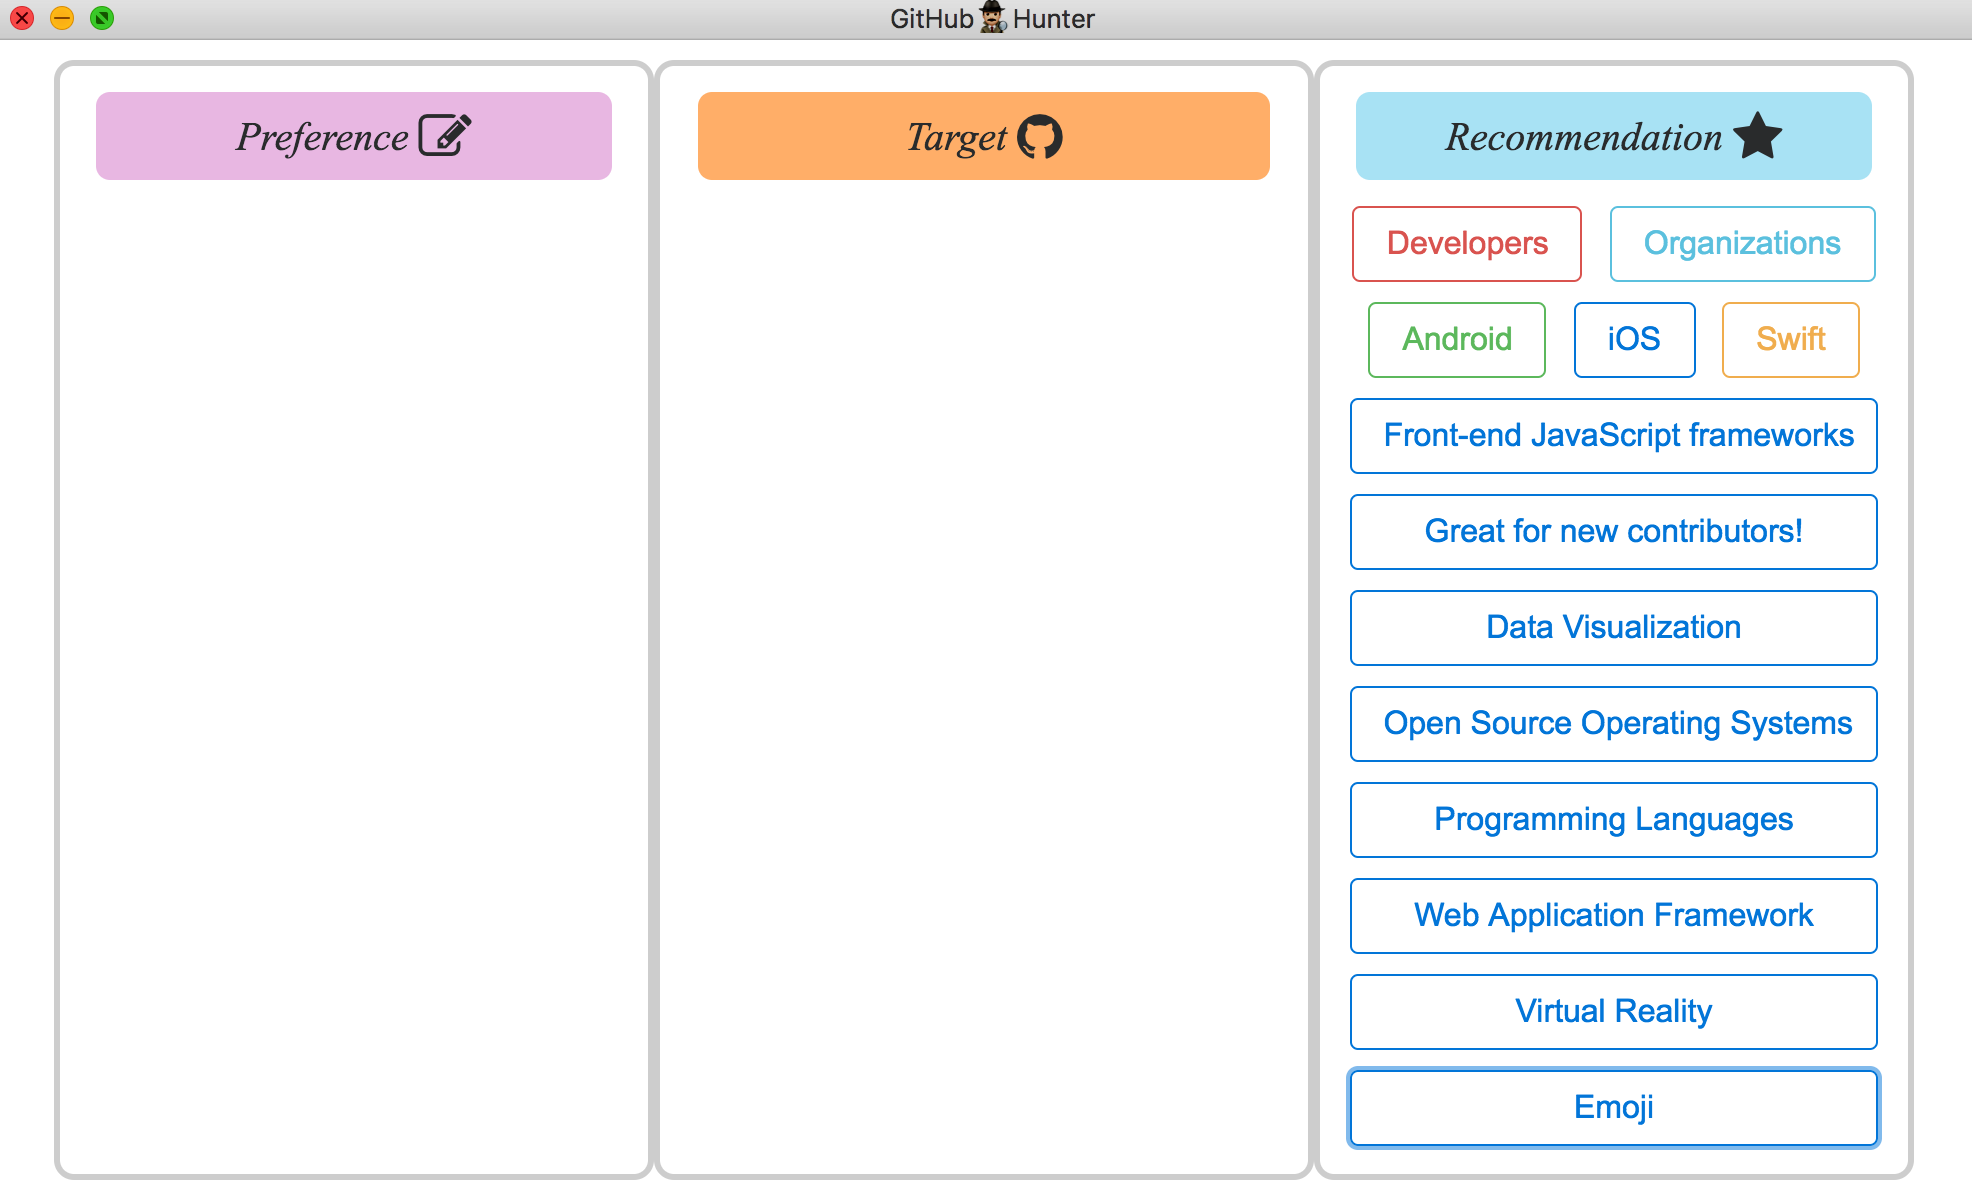
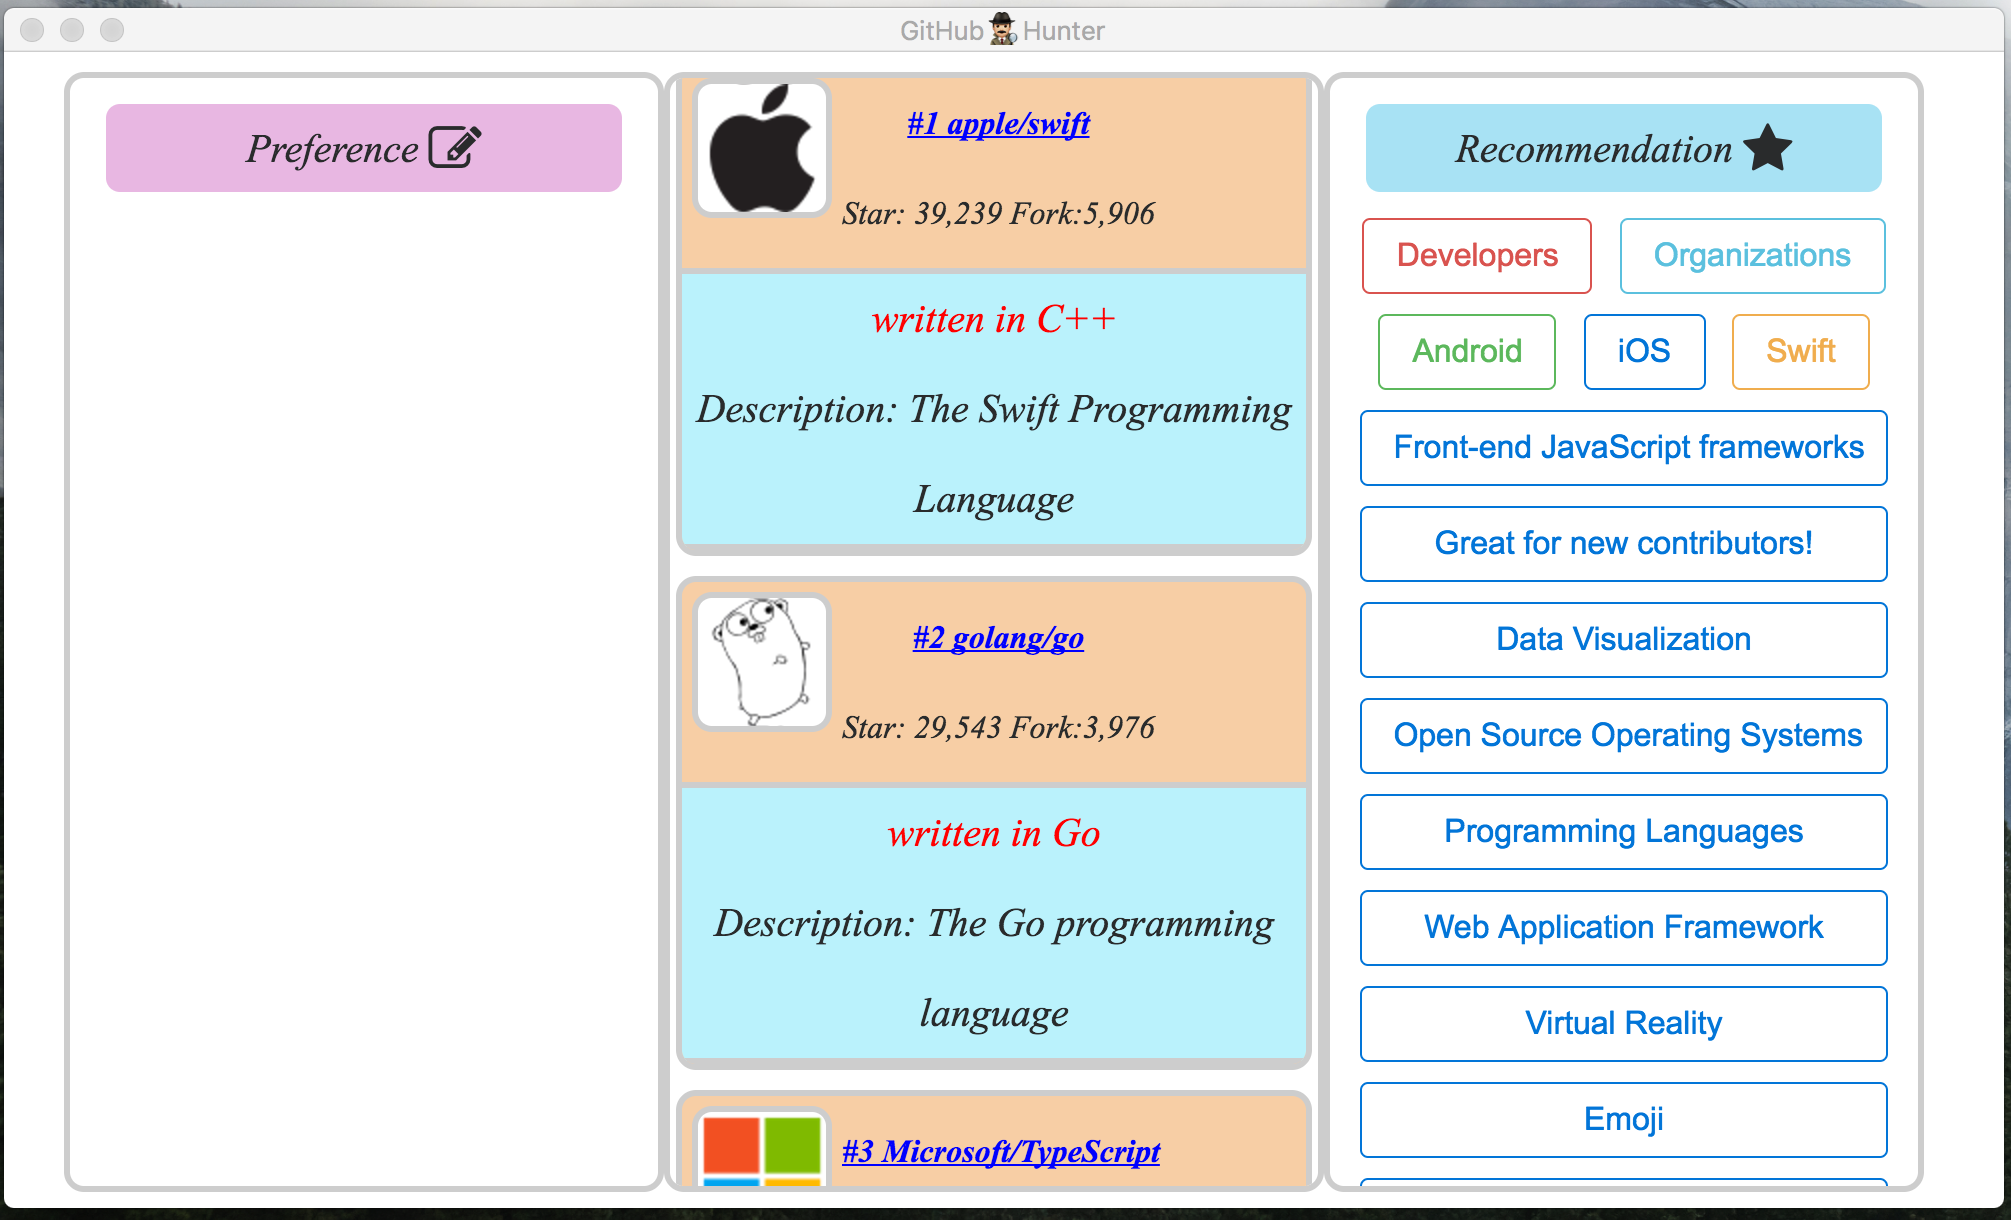
finished the middle section

diff --git a/assets/css/component.css b/assets/css/component.css
@@ -17,7 +17,7 @@
 }
 
 .middle_bar {
-  width: 90%;
+  width: auto;
   height: 50px;
   margin: 0 auto;
   background-color: rgb(255, 174, 104);
@@ -36,7 +36,7 @@
 
 .middle_button_box {
   width: 100%;
-  height: 200px;
+  height: auto;
   margin: 0 auto;
   margin-top: 10px;
   border: #cdcdcd medium solid;
@@ -50,57 +50,41 @@
   font-style: italic;
   font-size: 20px;
   overflow-y: scroll;
+  background-color: #f7cea5;
+
 }
 
 .middle_box_icon {
   width: 70px;
   height: 70px;
-  margin: 10px;
   border: #cdcdcd medium solid;
   border-radius: 10px;
   -moz-border-radius: 10px;
   -webkit-border-radius: 10px;
+  background-color: #ffffff;
 }
-.middle_box_info_row {
-  width: 90%;
-  height: 80px;
-  margin: 10px;
-  float: left;
-  border: #cdcdcd medium solid;
-  border-radius: 10px;
-  -moz-border-radius: 10px;
-  -webkit-border-radius: 10px;
-}
+
 .middle_box_info_row_name {
-  width: 165px;
-  height: 30px;
+  width: auto;
+  height: auto;
   font-size: 16px;
   color: blue;
   font-weight:bold;
-  border: #cdcdcd medium solid;
-  border-radius: 10px;
-  -moz-border-radius: 10px;
-  -webkit-border-radius: 10px;
 }
 .middle_box_info_row_star_fork {
-  width: 165px;
-  height: 50px;
+  width: auto;
+  height: auto;
   font-size: 16px;
   float: left;
-  border: #cdcdcd medium solid;
-  border-radius: 10px;
-  -moz-border-radius: 10px;
-  -webkit-border-radius: 10px;
 }
 .middle_box_desc_row {
-  width: 90%;
-  height: 100px;
-  margin-left: 10px;
-  float: left;
+  width: 100%;
+  height: auto;
   border: #cdcdcd medium solid;
   border-radius: 10px;
   -moz-border-radius: 10px;
   -webkit-border-radius: 10px;
+  background-color: #baf2fc;
 }
 .right_bar {
   width: 90%;

diff --git a/src/parsing.js b/src/parsing.js
@@ -49,6 +49,21 @@ function crawlingOneUrl (url) {
           topRow.className = 'row'
           buttonRow.className = 'row'
           topRow.style.margin = '5px'
+          // set up description
+          var description = document.createElement('div')
+          description.className = 'middle_box_desc_row'
+          var language = document.createElement('font')
+          language.color = 'red'
+          language.innerHTML = 'written in ' + reposLang[i]
+          var info = document.createElement('div')
+          info.style.marginLeft = '10px'
+          info.style.marginRight = '10px'
+          info.size = '3'
+          info.innerHTML = ' Description: ' + reposInfo[i]
+          // setup button info row
+          description.appendChild(language)
+          description.appendChild(info)
+          buttonRow.appendChild(description)
           // set up repos two info rows
           var rightDiv = document.createElement('div')
           rightDiv.style.marginLeft = '5px'
@@ -59,8 +74,8 @@ function crawlingOneUrl (url) {
 
 
           // setup repos Name
-          var name = document.createElement('a')
-          name.innerHTML = reposNames[i]
+          var name = document.createElement('u')
+          name.innerHTML = '#' + (i + 1) + ' ' + reposNames[i]
           name.id = i
           name.addEventListener('click', function () {
             shell.openExternal(reposLinks[this.id])
